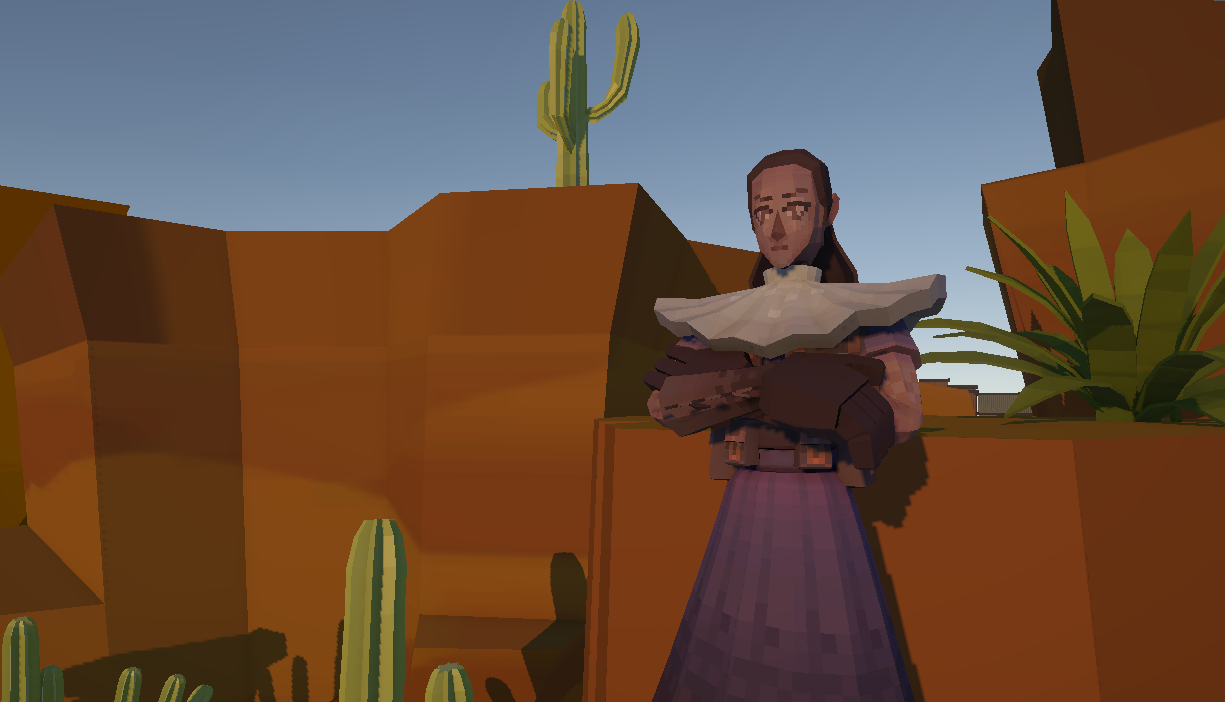
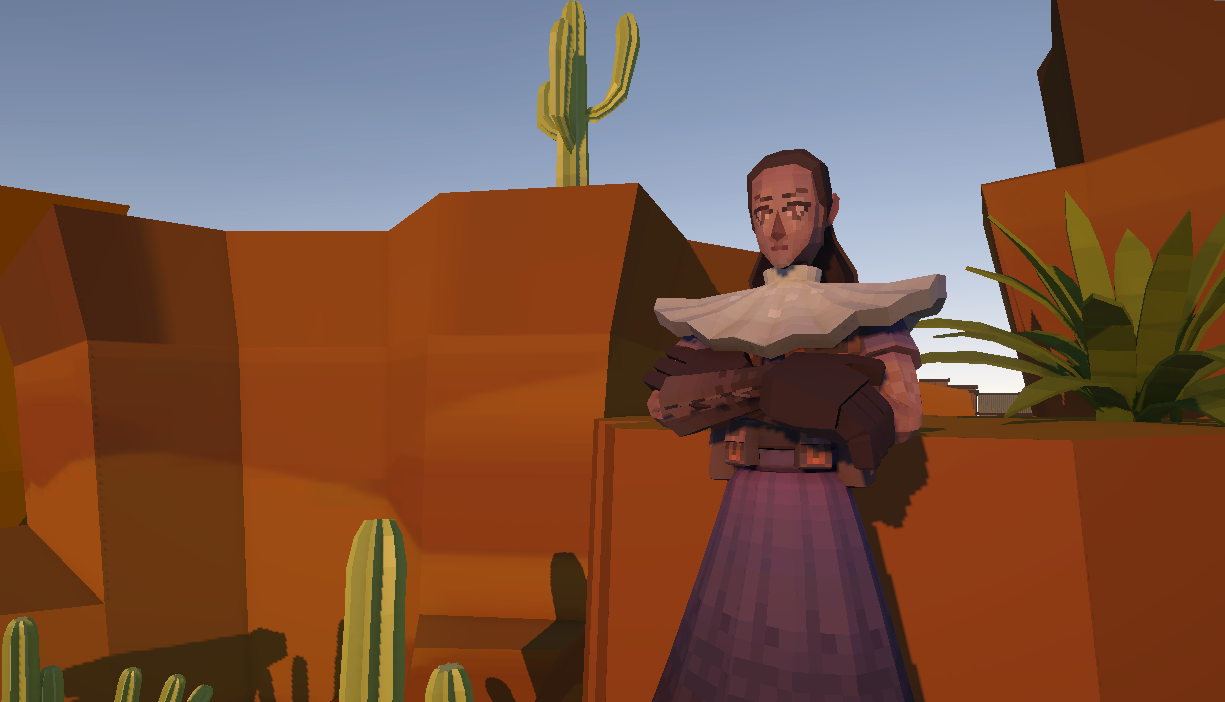
Readme

diff --git a/README.md b/README.md
@@ -371,8 +371,13 @@ Modelo 3D finalizado del personaje principal
 
 ###  NPCs
 
-#### Denebola
-<img src="./Imagenes_README/Denebola.png" alt="Denebola" style="width: 60%"/>
+#### Denébola
+Denébola es una habitante de Pricklytown, y es el primer encuentro que tiene Coyote. Ella le avisa de los peligros de la zona y le explica cómo combatirlos en un tutorial.
+ 
+<img src="./Imagenes_README/CapturasPersonajes/Denebola1.png" alt="Denebola" style="width: 100%"/>
+<img src="./Imagenes_README/CapturasPersonajes/Denebola2.png" alt="Denebola" style="width: 100%"/>
+<img src="./Imagenes_README/DenebolaConcept.jpg" alt="Denebola" style="width: 50%"/>
+<img src="./Imagenes_README/DenebolaRender.png" alt="Denebola" style="width: 50%"/>
 
 #### El carretero
 <img src="./Imagenes_README/perroconcept.jpg" alt="Prota3" style="width: 100%"/>
